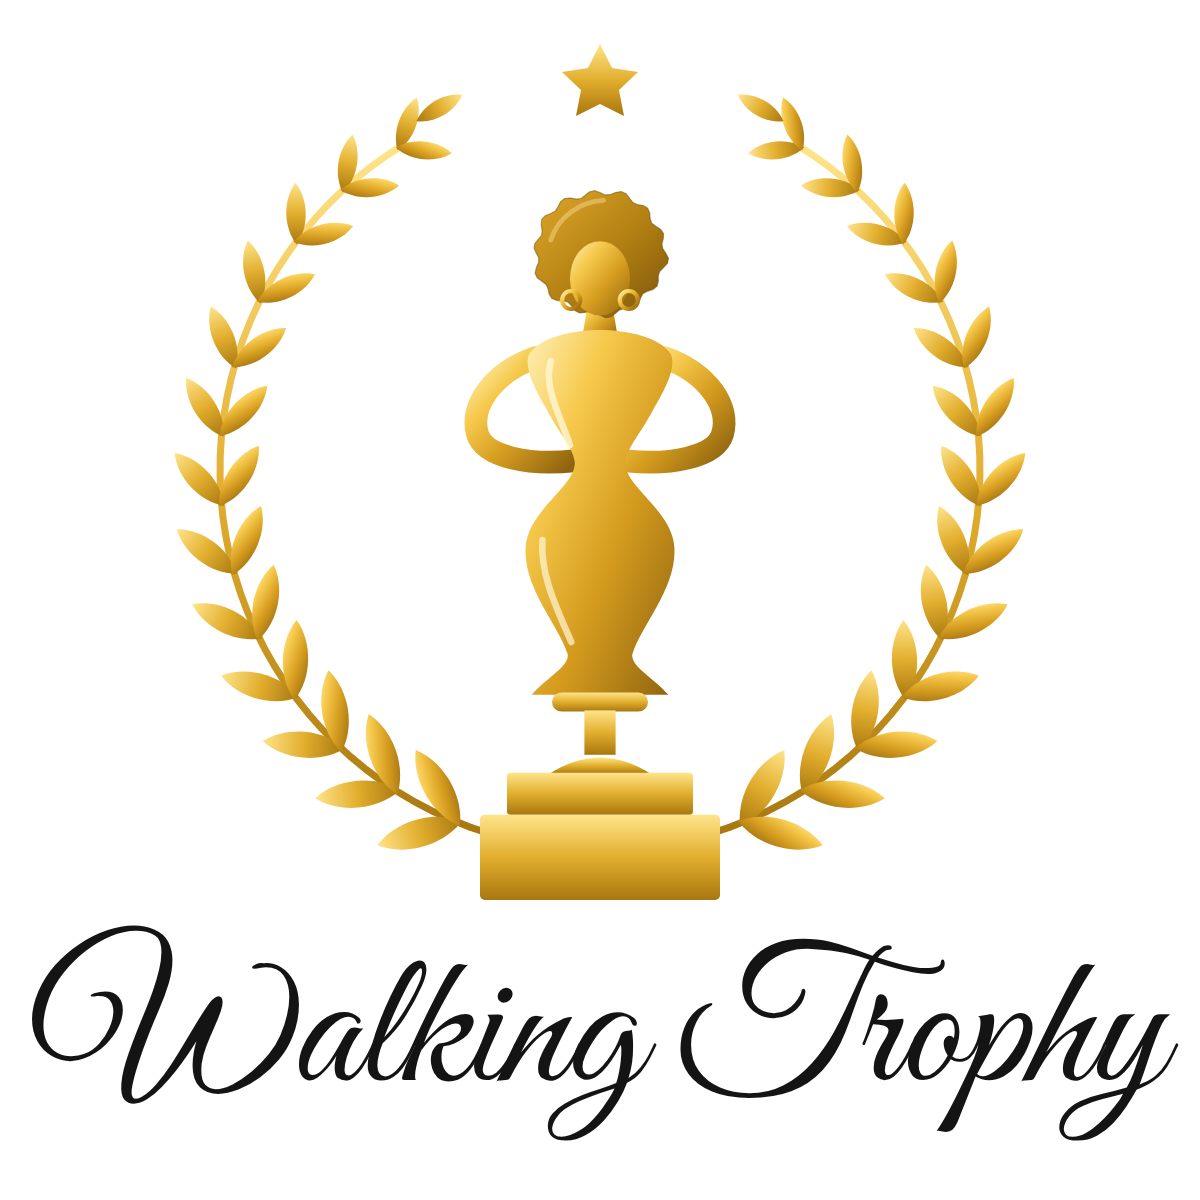
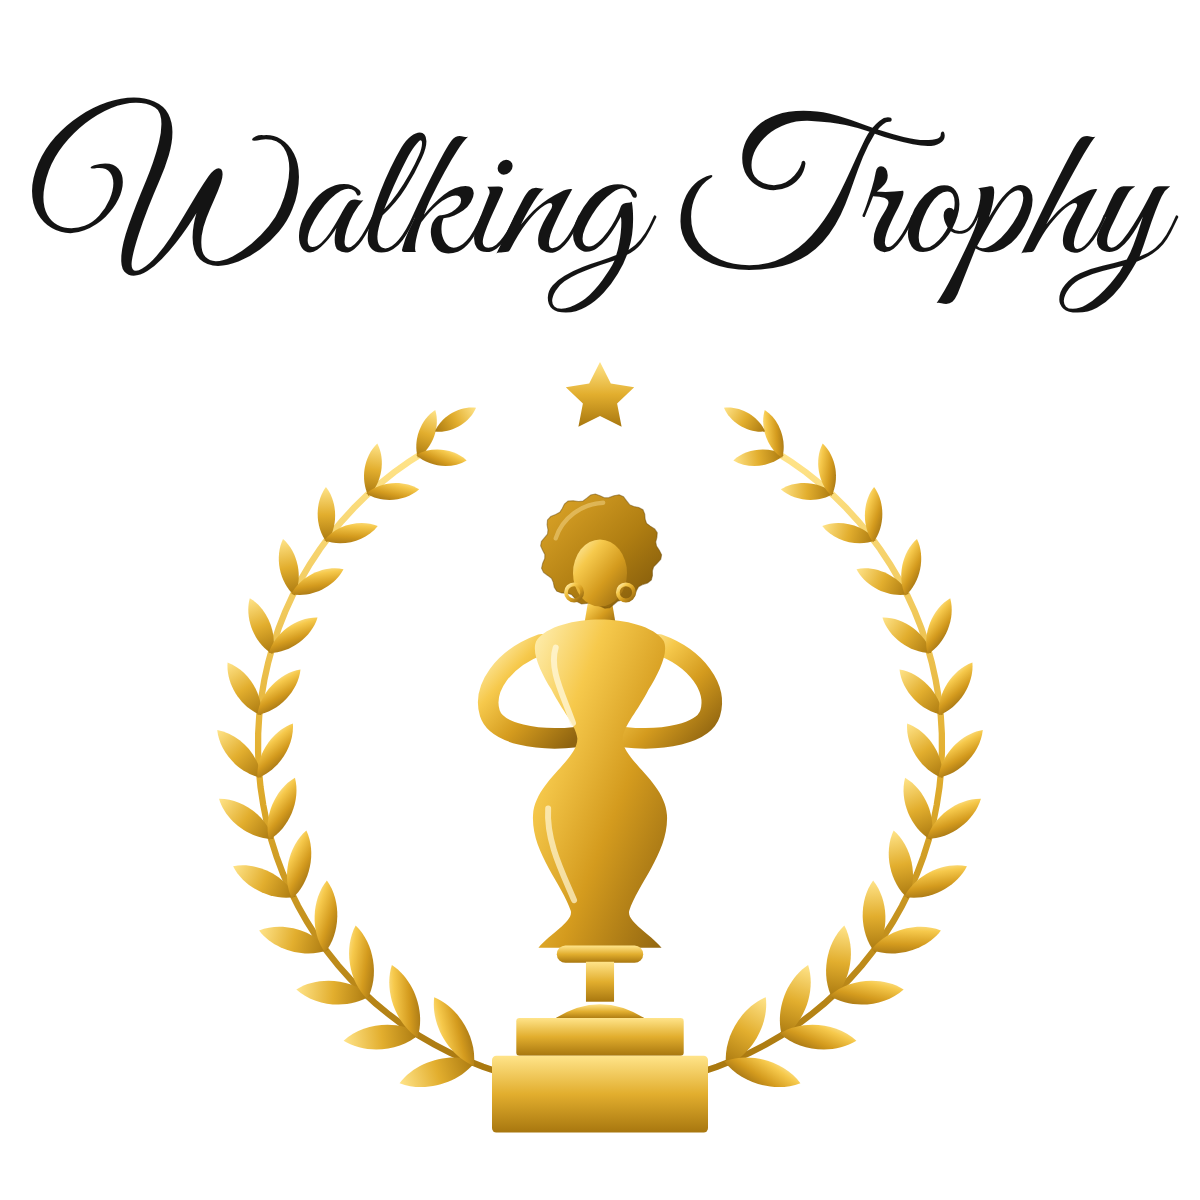
Walking Trophy front: script name above the laurel crest
Claude-Session: https://claude.ai/code/session_01Mt1Tg1SJuTeW2M8JbNNqgf

diff --git a/walking-trophy-tee/tools/build-design.js b/walking-trophy-tee/tools/build-design.js
@@ -75,12 +75,14 @@ const back = (ink, plaqueInk) => `<svg id="s" xmlns="http://www.w3.org/2000/svg"
   <g transform="translate(500 1330) scale(2.6)">${trophy(plaqueInk)}</g>
   ${sparkle(820, 1800, 2.0)}${sparkle(2780, 2050, 2.6)}${sparkle(2520, 1560, 1.3)}${sparkle(1000, 2650, 1.2)}${sparkle(2700, 3150, 1.3)}
 </svg>`;
-// FRONT left chest: 4" x 4" @300dpi - laurel crest around the trophy, script name beneath
+// FRONT left chest: 4" x 4" @300dpi - script name on top, laurel crest with the trophy beneath it
 const front = (ink, plaqueInk) => `<svg id="s" xmlns="http://www.w3.org/2000/svg" viewBox="0 0 1200 1200"><defs>${GOLD}</defs>
-  ${laurel(600, 470, 380)}
-  <g transform="translate(600 150) scale(0.6) translate(-500 0)">${trophy(plaqueInk, true)}</g>
-  <path d="M600 44 L612 68 L638 72 L619 90 L624 116 L600 104 L576 116 L581 90 L562 72 L588 68 Z" fill="url(#goldV)"/>
-  <text x="600" y="1080" text-anchor="middle" font-family="GV" font-size="190" fill="${ink}">Walking Trophy</text>
+  <text x="600" y="252" text-anchor="middle" font-family="GV" font-size="190" fill="${ink}">Walking Trophy</text>
+  <g transform="translate(600 362) scale(0.9) translate(-600 -44)">
+   ${laurel(600, 470, 380)}
+   <g transform="translate(600 150) scale(0.6) translate(-500 0)">${trophy(plaqueInk, true)}</g>
+   <path d="M600 44 L612 68 L638 72 L619 90 L624 116 L600 104 L576 116 L581 90 L562 72 L588 68 Z" fill="url(#goldV)"/>
+  </g>
 </svg>`;
 const variants = { 'dark-shirts': ['#FFFFFF', '#141414'], 'light-shirts': ['#141414', '#141414'] };
 (async () => {

diff --git a/walking-trophy-tee/README.md b/walking-trophy-tee/README.md
@@ -11,7 +11,7 @@ Blank: Printful women's relaxed t-shirt, Bella+Canvas 6400. Printing: DTG (direc
   - An hourglass figure that becomes the cup, and a gown that narrows into the stem.
 - **Base:** a plain two-tier gold base, with no plaque or text, and gold sparkles around her.
 
-**Front (left chest):** a gold laurel-wreath crest around the same trophy, with a small star at the top of the wreath and *Walking Trophy* in an elegant script underneath.
+**Front (left chest):** *Walking Trophy* in an elegant script on top, with a gold laurel-wreath crest around the same trophy underneath it and a small star at the top of the wreath.
 
 Fonts: Playfair Display and Great Vibes, both SIL Open Font License, free for commercial use.
 
